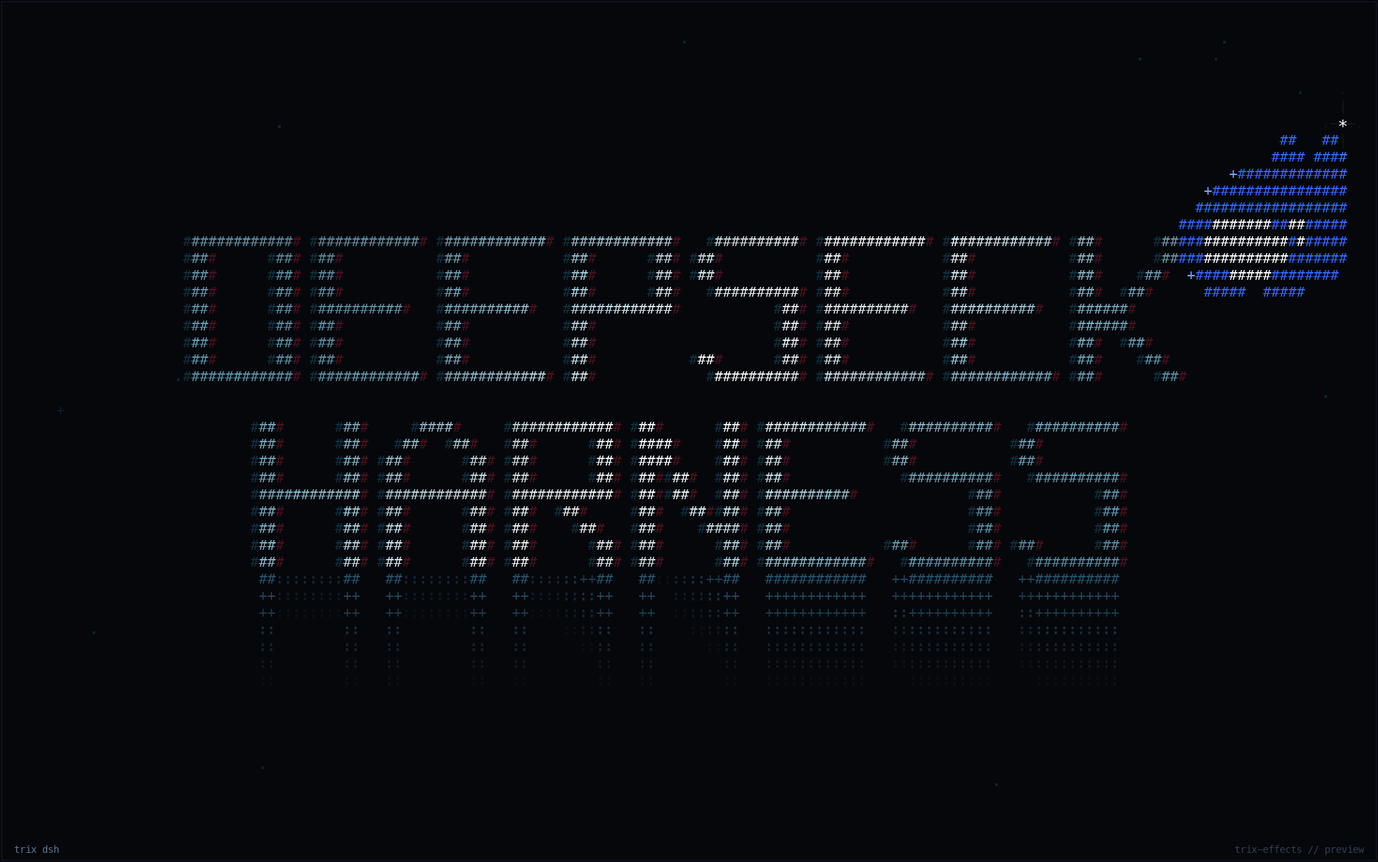
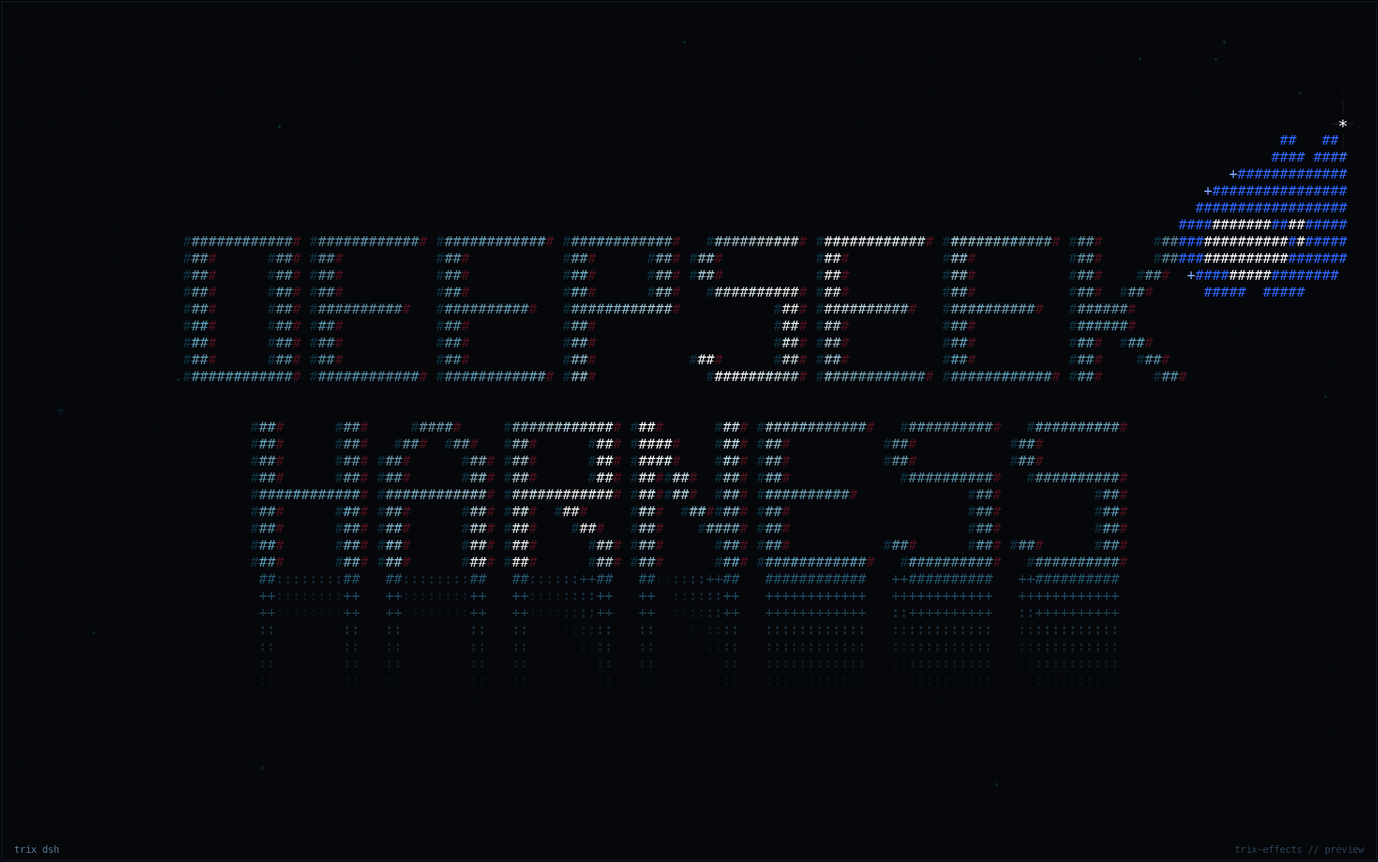
feat(dsh): narrow the diagonal light pulse
Replace the full-diagonal cosine wash with a gaussian pulse roughly two to three letters wide. The pulse starts and ends outside the lockup, so the rest of the wordmark stays at a steady ice-blue level and only a small white patch sweeps from the upper-left to the lower-right. Refresh the dsh previews and GIF, and sync the meta, README and changelog text.

diff --git a/src/scenes/dsh.rs b/src/scenes/dsh.rs
@@ -7,12 +7,12 @@
 //! The intro reveals the letters one by one, then drops the lockup in stuttered
 //! steps; when it lands it makes one quick two-row hop back up before settling,
 //! leaving a faint ghost stack under HARNESS.  After that the wordmark stays on
-//! screen forever while a diagonal band of light runs from its upper-left
-//! corner to its lower-right corner: letters brighten to white as the band
-//! reaches them and fall back to ice blue behind it, with no pause between
-//! passes.  A small star twinkles at the whale's tail tip and repeats the
-//! double-blink flare from the interstellar vanishing star.  ASCII is the
-//! default; `--unicode` swaps the fill for solid blocks.
+//! screen forever while a narrow diagonal band of light runs from its
+//! upper-left corner to its lower-right corner: only the letters under the
+//! band brighten to white, with soft edges, and they fall back to ice blue
+//! behind it before the next pass.  A small star twinkles at the whale's tail
+//! tip and repeats the double-blink flare from the interstellar vanishing
+//! star.  ASCII is the default; `--unicode` swaps the fill for solid blocks.
 
 #![allow(clippy::needless_range_loop)]
 
@@ -23,9 +23,15 @@ use crate::rng::hash2;
 use crate::scene::{Frame, Scene};
 
 /// One diagonal light pass from the lockup's upper-left corner to its
-/// lower-right corner.  The wave is periodic, so the next pass starts the
-/// moment the previous one leaves the screen.
+/// lower-right corner.  The pulse starts and ends just outside the lockup so
+/// it enters and leaves the frame instead of splitting at the wrap point.
 const SWEEP_PERIOD: f32 = 3.8;
+/// Width of the bright pulse as a fraction of the lockup diagonal.  At 0.10
+/// the hot core is about one letter wide and the soft half-max span reaches
+/// two to three letters.
+const SWEEP_SIGMA: f32 = 0.10;
+/// How far outside the lockup diagonal the pulse starts and ends.
+const SWEEP_MARGIN: f32 = 0.15;
 
 /// A small star twinkles at the whale's tail tip.  On terminals too narrow for
 /// the whale it falls back to the K's top-right corner and starts earlier.
@@ -1018,11 +1024,16 @@ fn sweep_u(layout: Layout, offset: isize, x: isize, y: isize) -> f32 {
     ((x as f32 - left) + 2.0 * (y as f32 - top)) / span
 }
 
-/// Brightness of the diagonal light band at normalised position `u`.
+/// Brightness of the narrow diagonal light pulse at normalised position `u`.
+///
+/// The pulse crosses the whole diagonal once per period, starting and ending
+/// just outside the lockup so the wrap happens while it is invisible.  A
+/// gaussian profile keeps the leading and trailing edges soft.
 fn sweep_glow(u: f32, t: f32) -> f32 {
-    let phase = (t / SWEEP_PERIOD).rem_euclid(1.0);
-    let wave = 0.5 + 0.5 * ((u - phase) * std::f32::consts::TAU).cos();
-    wave.powf(2.6)
+    let cycle = (t / SWEEP_PERIOD).rem_euclid(1.0);
+    let phase = -SWEEP_MARGIN + (1.0 + 2.0 * SWEEP_MARGIN) * cycle;
+    let d = u - phase;
+    (-(d / SWEEP_SIGMA).powi(2)).exp()
 }
 
 #[cfg(test)]
@@ -1278,37 +1289,47 @@ mod tests {
     }
 
     #[test]
-    fn diagonal_light_band_moves_from_upper_left_to_lower_right() {
-        // The crest of the band sits at u = t / SWEEP_PERIOD.  Sampling the
-        // whole diagonal at four points in the cycle shows it walking from
-        // the upper-left corner to the lower-right corner.
-        for k in [0.0, 0.25, 0.5, 0.75] {
-            let t = SWEEP_PERIOD * k;
-            let mut best_u = 0.0;
-            let mut best = -1.0;
-            for i in 0..=1000 {
-                let u = i as f32 / 1000.0;
-                let glow = sweep_glow(u, t);
-                if glow > best {
-                    best = glow;
-                    best_u = u;
-                }
-            }
-            assert!(
-                (best_u - k).abs() < 0.01,
-                "the crest should be at {k} after {k} of a period, got {best_u}"
-            );
-        }
+    fn narrow_light_pulse_moves_from_upper_left_to_lower_right() {
+        // At half a period the pulse is centred on the diagonal; a quarter
+        // period later it has moved towards the lower-right corner.
+        let peak = |t: f32| {
+            (0..=1000)
+                .map(|i| i as f32 / 1000.0)
+                .max_by(|a, b| {
+                    sweep_glow(*a, t)
+                        .partial_cmp(&sweep_glow(*b, t))
+                        .expect("finite glow")
+                })
+                .expect("sample")
+        };
+        let quarter = peak(0.25 * SWEEP_PERIOD);
+        let middle = peak(0.5 * SWEEP_PERIOD);
+        let three_quarters = peak(0.75 * SWEEP_PERIOD);
+        assert!(
+            quarter < middle && middle < three_quarters,
+            "the pulse should walk down-right: {quarter} < {middle} < {three_quarters}"
+        );
+        assert!((middle - 0.5).abs() < 0.01);
 
-        // The loop is seamless: one period later the same gradient returns.
-        for i in 0..10 {
+        // It is a small patch of light, not a broad wash: 0.2 of the diagonal
+        // away from the crest is already dark.
+        let mid = 0.5 * SWEEP_PERIOD;
+        assert!(sweep_glow(0.5, mid) > 0.99);
+        assert!(sweep_glow(0.3, mid) < 0.05);
+        assert!(sweep_glow(0.7, mid) < 0.05);
+
+        // It starts and ends outside the lockup, so the wrap is a clean gap
+        // rather than two half-pulses at opposite corners.
+        assert!(sweep_glow(0.5, 0.0) < 0.05);
+        assert!(sweep_glow(0.5, 0.999 * SWEEP_PERIOD) < 0.05);
+
+        // One period later the same pulse returns.
+        for i in 0..=10 {
             let u = i as f32 / 10.0;
             let a = sweep_glow(u, 7.3);
             let b = sweep_glow(u, 7.3 + SWEEP_PERIOD);
-            assert!((a - b).abs() < 1e-4, "sweep does not wrap at u={u}");
+            assert!((a - b).abs() < 1e-4, "pulse does not wrap at u={u}");
         }
-        // The far side of the cycle is a genuine trough, not a second crest.
-        assert!(sweep_glow(0.5, 0.0) < 0.05);
     }
 
     #[test]
@@ -1322,6 +1343,7 @@ mod tests {
         let mut min = 1.0f32;
         let mut max = 0.0f32;
         let mut lit = 0;
+        let mut bright = 0;
         for c in &scene.mask {
             let y = c.y + offset;
             if !(1..=45).contains(&y) {
@@ -1331,8 +1353,12 @@ mod tests {
             if cell.ch == ' ' {
                 continue;
             }
-            min = min.min(cell.fg.luminance());
-            max = max.max(cell.fg.luminance());
+            let lum = cell.fg.luminance();
+            min = min.min(lum);
+            max = max.max(lum);
+            if lum > 0.90 {
+                bright += 1;
+            }
             lit += 1;
         }
         assert!(lit > 500);
@@ -1348,6 +1374,10 @@ mod tests {
             max - min > 0.20,
             "the diagonal gradient is too flat: {min:.2}..{max:.2}"
         );
+        assert!(
+            bright * 4 < lit,
+            "the pulse covers too much of the wordmark: {bright}/{lit} bright cells"
+        );
 
         // The bright cells should be the ones furthest along the diagonal at
         // this phase, and they should move further down-right a moment later.
@@ -1362,7 +1392,7 @@ mod tests {
                     continue;
                 }
                 let cell = canvas.cells[y as usize * 160 + c.x as usize];
-                if cell.fg.luminance() > 0.90 {
+                if cell.fg.luminance() > 0.82 {
                     sum += (c.x + 2 * c.y) as f32;
                     n += 1.0;
                 }
@@ -1374,7 +1404,7 @@ mod tests {
             }
         };
         let earlier = mean_projection(&mut scene, 10.0);
-        let later = mean_projection(&mut scene, 10.0 + SWEEP_PERIOD * 0.25);
+        let later = mean_projection(&mut scene, 10.0 + SWEEP_PERIOD * 0.16);
         assert!(
             later > earlier,
             "the bright band should move down-right: {earlier} -> {later}"

diff --git a/src/meta.rs b/src/meta.rs
@@ -314,7 +314,7 @@ impl EffectId {
             EffectId::Ballet => "A 39-scene-second duet looping through 13 sections: glide, crossover, arabesque, promenade, overhead lift, pair spin, death spiral, sissonne, Ina Bauer and finale. Joints use two-bone IK; the default tempo is 2x, about 19.5 seconds per loop.",
             EffectId::DemonEye => "One huge bloodshot eye fills the screen; it blinks every 8-15 seconds and darts its gaze 1-2 times between blinks. --eye-motion dart|still.",
             EffectId::Life => "A 0-100 age timeline with glowing life lines; family, love and generations enter and leave on schedule. The bright beam grows with age; a supernova finale closes ME's timeline. --life-cycle sets the round length.",
-            EffectId::Dsh => "A giant two-line DEEPSEEK HARNESS lockup with a blue whale mark immediately to the right of the K. Both lines are centred; the layout protects clear letter gaps (never zero, at least two blank columns in the 3x face and up to three in the 2x face) and picks the largest face that still leaves the mark touching the K. The whale fades in after the landing bounce. The intro reveals the letters one by one and drops the lockup in stuttered one-row steps; when it lands it gives one quick two-row hop upward before settling, and a faint ghost stack stays at HARNESS's feet. After that the wordmark never leaves the screen: a diagonal band of light travels from the upper-left corner to the lower-right, lifting each glyph from ice blue to white as it arrives and letting it fall back behind the band. The sweep loops with no pause, and nothing is drawn between the letters — it is a pure font-brightness gradient rather than a beam. The whale's tail tip carries the little twinkling star, which replays the two-blink flare from the interstellar scene's vanishing star. No fireworks or particle burst. ASCII by default; --unicode uses solid blocks, and --trail sets the drop-ghost strength.",
+            EffectId::Dsh => "A giant two-line DEEPSEEK HARNESS lockup with a blue whale mark immediately to the right of the K. Both lines are centred; the layout protects clear letter gaps (never zero, at least two blank columns in the 3x face and up to three in the 2x face) and picks the largest face that still leaves the mark touching the K. The whale fades in after the landing bounce. The intro reveals the letters one by one and drops the lockup in stuttered one-row steps; when it lands it gives one quick two-row hop upward before settling, and a faint ghost stack stays at HARNESS's feet. After that the wordmark never leaves the screen: a narrow diagonal band of light travels from the upper-left corner to the lower-right, lifting each glyph from ice blue to white as it arrives and letting it fall back behind the band. The sweep loops continuously, with the pulse entering and leaving the frame between passes, and nothing is drawn between the letters — it is a pure font-brightness gradient rather than a beam. The whale's tail tip carries the little twinkling star, which replays the two-blink flare from the interstellar scene's vanishing star. No fireworks or particle burst. ASCII by default; --unicode uses solid blocks, and --trail sets the drop-ghost strength.",
             EffectId::Vibe => "A Claude Code-style transcript reads src/scenes/vibe.rs (or an embedded copy), types it with a small Rust syntax highlighter and loops through six windows per turn; only the lines up to the typing head are visible, and each loop starts from a clean transcript. ASCII by default; --unicode swaps in the Claude Code prompt, tool and spinner glyphs.",
             EffectId::Volcano => "The sky starts clear over a compact truncated cone. One continuous eruption builds a thick, churning canopy about half the screen wide; the dense middle keeps rolling as fresh ash is supplied and never shrinks, while the flanks stay thinner. Lava bombs and rock blocks rain out of the middle and explode on landing, a continuous fountain feeds the column, two curved lava rivers crawl down the cone, and volcanic lightning crawls through the ash. ASCII by default; --unicode uses solid blocks for the mountain and ash.",
             EffectId::Launch => "A twenty-four second launch film: blue-hour pad, ignition flash, a full-height two-stage rocket with twin boosters, layered exhaust and world-space smoke, max-Q, MECO and booster separation, a second-stage climb, then an Earth-limb sunrise. The camera follows and shakes; --rocket-scale and --shake tune the framing. Pure ASCII.",

diff --git a/README.md b/README.md
@@ -218,7 +218,7 @@ Every effect name is given in English and Chinese; `trix --list` uses the same n
 | Ice Ballet (冰上芭蕾) `ballet` | An ice-ballet duet: a 39-scene-second choreography loops through 13 sections; the default 2x tempo makes one loop about 19.5 seconds (glide, crossover, arabesque, promenade, **overhead lift**, pair spin, death spiral, sissonne, Ina Bauer, final pose); joints use two-bone IK, clasped hands align automatically, limbs have soft edges and lag behind the torso; the routine covers most of the screen, three rows of spectators behind the boards sway, raise their hands and fire flashbulbs, and skate marks and reflections stay on the ice; `--speed` |
 | Demon Eye (恶魔之眼) `demoneye` | One huge bloodshot eye fills the screen: it blinks every 8–15 seconds, singly or doubly (about 7:3); between blinks the eyeball darts only 1–2 times (darts at least 5 seconds apart), reaching the target in about 0.1 s and always returning to center within 0.45–0.85 s; the vertical pupil scales, eyelids press in, blood vessels and a blink shockwave; `--eye-motion dart\|still` (default `dart`), `--eye-still` pins the eyeball dead center |
 | Threads of Life (生命的轨迹) `life` | A 0–100 age timeline with glowing life lines on both sides; every human uses `@` with a colored uppercase abbreviation on the same row and **the relative's own age** (friends who are not family carry no age); the bright beam grows with age (late in life it can cover most of the lifetime), fading from dark dots / dashes at the tail up to `=` at the head, with a `****@` comet tail; the first ~22%–42% of life (at most about 22 years) stays as sparse dim dots; when a track ends its row can be reused by someone later (school-age `PAL/UNI` +1 row → GF/WIFE, `DOG` −1 row → KID2, and the cat / parents' rows are reclaimed by later friends); `DOG` stays at −1 next to me for life; when `PAL/UNI/WORK/FRIEND` coexist they **share one row**: during the school years it sits on the other side at +1, and while a minor KID exists the whole group retreats to the nearest free row outside KID/CAT (usually +4; only rows actually used by children/pets are yielded, no longer fixed −5/−7), and all KIDs move back inside once grown; `ME 0 / WIFE +1`; `KID1 +2`, `KID2 −1` (reusing the row next to me that DOG gave up), `KID3 −2`; before adulthood `KID3 −2 / KID2 −1 / ME 0 / WIFE +1 / KID1 +2` is **contiguous with no empty rows**, and `GRAND1/GRAND2` always hug their parent's row (moving with them as they drift); `CAT +3` is born with the first child, just below KID1; `DAD/MOM +3/+4` start yielding to `+5/+6` two years before the child is born, and `BRO +5→+7` follows; GPA/GMA/DAD/MOM get suitable random starting ages when I am 0 (58–70 / 56–68 / 25–33 / 23–31), BRO 0–4, ME 0; KID/GRAND/CAT/DOG count from their own birth, GF/WIFE are within ±2 years of my age; every row is fixed at one terminal row (it does not scale with terminal height, and tall terminals never produce empty rows from rounding); when `ME` ends, a roughly 6-second **supernova finale** plays (the flashback and stardust slow down while the comet keeps its speed: white core, life flashback, shockwave, stardust, brightened comet and a permanent halo at the top; the flashback beam that reaches ME's stop line stays three columns wide and never disappears); the death point and the top star keep `@` + name + final age and appear/disappear in sync once per second; all the dead rise to the top in death order, one row apart, and their end labels fade in 0.5 s after the meteor arrives; humans blink as `*`, cats and dogs as `+`; GF approaches for 2 years, then stays 1–2 years before becoming WIFE; WIFE lives to 75–90 and dies after I become a star; AGE has no leading zeros; `--life-cycle` sets the length of one round |
-| DeepSeek Harness (深度求索) `dsh` | A giant **two-line** wordmark with **both lines centred**: `DEEPSEEK` on top, `HARNESS` below. Letter gaps are protected — never zero, at least **two blank columns in the 3× face** and up to three in the 2× face — so every letter stays distinct. The **blue whale mark** sits immediately to the right of the K, its mouth touching the K; it fades in after the landing bounce. The intro **fades the letters in one by one**, then **drops the lockup in stuttered one-row steps** and gives a quick two-row **upward hop** when it lands; a deliberately faint ghost stack stays at HARNESS's feet, never over the letter bodies. After that the wordmark **never disappears**: a **diagonal band of light** runs from the lockup's upper-left corner to its lower-right corner, lifting each glyph from ice blue to white as it arrives and letting it fall back behind the band. The sweep **loops with no pause**, and nothing is drawn between the letters — it is a pure **font-brightness gradient**, not a beam. A tiny star twinkles at the **whale's tail tip**, replaying the two-blink flare from the Interstellar scene's vanishing star. No fireworks or particle burst. `--trail <f>` sets the drop-ghost strength; **ASCII by default**, `--unicode` uses solid blocks ([GIF](docs/dsh.gif)) |
+| DeepSeek Harness (深度求索) `dsh` | A giant **two-line** wordmark with **both lines centred**: `DEEPSEEK` on top, `HARNESS` below. Letter gaps are protected — never zero, at least **two blank columns in the 3× face** and up to three in the 2× face — so every letter stays distinct. The **blue whale mark** sits immediately to the right of the K, its mouth touching the K; it fades in after the landing bounce. The intro **fades the letters in one by one**, then **drops the lockup in stuttered one-row steps** and gives a quick two-row **upward hop** when it lands; a deliberately faint ghost stack stays at HARNESS's feet, never over the letter bodies. After that the wordmark **never disappears**: a **narrow diagonal band of light** runs from the lockup's upper-left corner to its lower-right corner, lifting each glyph from ice blue to white as it arrives and letting it fall back behind the band. The sweep **loops continuously**, entering and leaving the frame before the next pass, and nothing is drawn between the letters — it is a pure **font-brightness gradient**, not a beam. A tiny star twinkles at the **whale's tail tip**, replaying the two-blink flare from the Interstellar scene's vanishing star. No fireworks or particle burst. `--trail <f>` sets the drop-ghost strength; **ASCII by default**, `--unicode` uses solid blocks ([GIF](docs/dsh.gif)) |
 | Vibe Coding (氛围编程) `vibe` | A single-column **Claude Code transcript** that reads `src/scenes/vibe.rs` (or an embedded copy), types the source with a hand-written **Rust syntax highlighter**, and loops through six short windows per turn; each loop starts from a clean transcript; it shows the prompt, assistant/tool lines, `+` diff-style code, a rotating spinner with token count, the input box and the bypass-permissions footer; **ASCII by default** (`>`, `*`, `L`, `>>`), `--unicode` switches to Claude Code-style `❯ ◉ └ ✻ ▶▶` glyphs ([GIF](docs/vibe.gif)) |
 | Volcano (火山爆发) `volcano` | The sky starts clear over a compact truncated cone. One continuous eruption builds a thick, churning canopy about half the screen wide: the dense middle keeps rolling as fresh ash is supplied and never shrinks, while the flanks stay thinner. Lava bombs and rock blocks rain out of the middle and explode on landing, a continuous fountain feeds the column, two curved lava rivers crawl down the cone, and volcanic lightning crawls through the ash. A dark foreground ridge with pines frames the scene. **ASCII by default**; `--unicode` uses solid blocks for the mountain and ash. |
 | Rocket Launch (火箭发射) `launch` | A 24-second launch film: a larger two-stage rocket with twin boosters, blue-hour pad, ignition fireball, layered exhaust and world-space smoke, a following camera with shake, max-Q clouds, MECO / stage separation, a second-stage climb and an Earth-limb sunrise; `--rocket-scale` and `--shake`. **Pure ASCII.** |
@@ -511,7 +511,7 @@ scripts/bench.sh
 - **Heartbeat Monitor**: ECG grid, P-QRS-T waveform, scan line, HR/SpO2/SYS-DIA; ASCII waveform by default, `--unicode` switches to Unicode box drawing / solid waveform.
 - **Dandelion**: 3 clumps × 2 stems / 6 flower heads; left and right roots bend toward the center; flower heads ×1.5.
 - **Oriental Pearl**: Bund night view + Oriental Pearl + Huangpu River reflections; two random boats on the river — hull type (junk / barge / ferry), size, hull palette, channel depth and drift direction are all random; distant boats sit low on the water while near boats are large and press against the frame, with decks / portholes / lit cabin windows / smoking funnels / mast lights / bow lanterns / wakes and water reflections; 1–2 meteors cross the night sky every 3–5 seconds (about 18% of intervals are skipped), with a white-hot head and an ice-blue or warm-gold fading tail, flying into the skyline or fading out and being recycled.
-- **DeepSeek Harness**: a two-line lockup (`DEEPSEEK` / centred `HARNESS`) is laid out from the 6×9 / 8×11 display faces with horizontal pixel doubling. The layout now treats spacing as part of the design: the old zero/one-column candidates were removed, the 3× face always keeps two blank columns, and the 2× face tries three then two before one. At 160×48 the lines are 117×9 with three-column gaps; at 248×56 they are 206×11 with two-column gaps. A hand-traced **blue whale** (brand blue body, white belly and eye patch, tail upper-right) sits immediately to the right of the K — its mouth touches the K — and fades in after the landing bounce; it is 20×10 at 160×48, 13×6 at 120×36, 11×5 at 100×30 and hidden below 100 columns. The intro is a per-letter reveal with a top-to-bottom wipe and a quantised one-row drop; when the lockup lands it makes one quick two-row hop back up before settling, while the ghost stays on the bottom step. The ghost belongs to HARNESS alone: it starts at the feet of the letters and stays faint, so it reads as an afterimage rather than a second copy of the text. The wordmark then stays on screen forever: a diagonal band of light runs from the upper-left corner to the lower-right, with the glyphs lifted from ice blue to white as it arrives and dropped back to ice blue behind it. The sweep is continuous, with no rest between passes and no beam drawn between the letters — only the font's own brightness and colour change. A small star sits at the whale's tail tip: it keeps a faint, slow twinkle and every 4.6 s replays the Interstellar vanishing star's two-blink flare — a hot `*` core, cross arms, diagonal rays and a short expanding ring of dots. No other flare or particle burst. `--trail` scales the ghosts.
+- **DeepSeek Harness**: a two-line lockup (`DEEPSEEK` / centred `HARNESS`) is laid out from the 6×9 / 8×11 display faces with horizontal pixel doubling. The layout now treats spacing as part of the design: the old zero/one-column candidates were removed, the 3× face always keeps two blank columns, and the 2× face tries three then two before one. At 160×48 the lines are 117×9 with three-column gaps; at 248×56 they are 206×11 with two-column gaps. A hand-traced **blue whale** (brand blue body, white belly and eye patch, tail upper-right) sits immediately to the right of the K — its mouth touches the K — and fades in after the landing bounce; it is 20×10 at 160×48, 13×6 at 120×36, 11×5 at 100×30 and hidden below 100 columns. The intro is a per-letter reveal with a top-to-bottom wipe and a quantised one-row drop; when the lockup lands it makes one quick two-row hop back up before settling, while the ghost stays on the bottom step. The ghost belongs to HARNESS alone: it starts at the feet of the letters and stays faint, so it reads as an afterimage rather than a second copy of the text. The wordmark then stays on screen forever: a narrow diagonal band of light runs from the upper-left corner to the lower-right, with the glyphs lifted from ice blue to white as it arrives and dropped back to ice blue behind it. The pulse enters and leaves the frame before the next pass, so the sweep loops continuously, and no beam is drawn between the letters — only the font's own brightness and colour change. A small star sits at the whale's tail tip: it keeps a faint, slow twinkle and every 4.6 s replays the Interstellar vanishing star's two-blink flare — a hot `*` core, cross arms, diagonal rays and a short expanding ring of dots. No other flare or particle burst. `--trail` scales the ghosts.
 - **Rocket Launch**: a procedurally scaled two-stage stack (fairing, core, twin boosters and engine bells) is drawn from a 7/9/11-column glyph grid; the camera follows the ascent and shakes on ignition and separation. Exhaust is a layered ASCII plume with a white-hot spine and shock diamonds, backed by world-space smoke, steam and sparks. The blue-hour sky gradient, parallax star layers, cloud deck, MECO flash, tumbling core and boosters, Earth-limb atmosphere and orbital sunrise are drawn around it. `--rocket-scale` and `--shake` tune the framing.
 - **Vibe Coding**: reads `src/scenes/vibe.rs` (falling back to a compile-time copy), normalises it to ASCII, skips the test module and builds six 10-line windows per turn. A hand-written Rust tokenizer colours comments, strings, numbers, keywords, types, macros and function names; the transcript is a typed queue that only reveals lines up to the typing head (the area below stays blank) and clears before the next loop, with a Claude Code-style spinner, token count and composer.
 - **Offline map data**: `tools/gen_land.py` downloads Natural Earth and rasterizes it into `src/data/land_720x360.bin`; runtime never touches the network.

diff --git a/README.zh-CN.md b/README.zh-CN.md
@@ -218,7 +218,7 @@ trix --list            # TTY 下彩色目录；管道下纯文本
 | 冰上芭蕾 (Ice Ballet) `ballet` | 冰场双人舞：39 个场景秒的编舞循环 13 个舞段；默认 2× 节奏约 19.5 秒一轮（滑行、压步、arabesque、promenade、**头顶托举**、联合旋转、death spiral、sissonne 跳跃、Ina Bauer、收势），关节用两骨 IK 求解、牵手自动对齐，四肢带柔边并延迟跟随躯干；整场滑行覆盖大部分画面，围板后有三排会摇晃/举手/打闪光灯的观众，冰面留下冰刀刻痕与倒影；`--speed` 调速 |
 | 恶魔之眼 (Demon Eye) `demoneye` | 整屏一只巨大血眼：眨眼每 8～15 秒一次、单眨或双眨（约 7:3），每两次眨眼之间只甩出 1～2 次（两次跳动相隔 ≥5 秒），约 0.1 秒到位、0.45～0.85 秒内必回正中直视观众；竖瞳缩放、眼睑压暗、血丝与眨眼冲击波；`--eye-motion dart\|still`（默认 dart），`--eye-still` 让眼球钉在正中 |
 | 生命的轨迹 (Threads of Life) `life` | 0～100 岁时间轴与左右生命线；人类统一 `@` 符号 + 同排彩色大写简写 + **家属本人年龄**（非亲属朋友不带年龄）；亮光束随年龄增长（年长后可覆盖大部分生命），由尾部的暗点/短划线渐亮到 `=`，头部为 `****@` 彗尾；生命最初约 22%～42%（最多约 22 年）保留为稀疏暗淡的点；每条轨迹结束后其行位可被后来者复用（学龄 `PAL/UNI` 的 +1 行 → GF/WIFE，`DOG` 的 -1 行 → KID2，猫/父母的行位也会被后来的朋友接回）；`DOG` 终身在 -1 紧挨我；`PAL/UNI/WORK/FRIEND` 同时出现时**共用同一行**：学龄期在 +1 另一侧，有未成年 KID 时整组退到 KID/CAT 外侧最近的空行（通常为 +4；只让出孩子/宠物实际占用的行，不再固定 -5/-7），所有 KID 成年后回到内侧；`ME 0 / WIFE +1`；`KID1 +2`、`KID2 -1`（复用 DOG 让出的紧邻行）、`KID3 -2`；成年前 `KID3 -2 / KID2 -1 / ME 0 / WIFE +1 / KID1 +2` **连续无空行**，`GRAND1/GRAND2` 始终紧贴父辈一行（父辈成年漂移后随之移动）；`CAT +3` 与第一个孩子同时出生，紧贴 KID1 下方；`DAD/MOM +3/+4` 在孩子出生前两年开始让位到 `+5/+6`，`BRO +5→+7` 紧随让位；GPA/GMA/DAD/MOM 在我 0 岁时随机得到合适起始年龄（58～70 / 56～68 / 25～33 / 23～31），BRO 0～4，ME 0；KID/GRAND/CAT/DOG 从各自出生起算，GF/WIFE 与我同龄上下 2 岁；所有行固定为 1 个终端行（不随终端高度缩放，高终端也不会因取整出现空行）；`ME` 结束时触发约 6 秒的**超新星终章**（回闪与星屑放慢、彗星保持原速；白光核心、一生回闪、冲击波、星屑、加亮彗星与顶部永久光晕；回闪扫描光柱到达 ME 的停止线后以三列宽永久保留，不再消失）；死亡点与顶部星标保留 `@` + 名称 + 最终年龄，并以每秒 1 次同步显现/消失；所有死亡角色升到顶部按死亡顺序隔行排列，终点标签在流星抵达后 0.5 秒淡入；人类 `*`、猫狗 `+` 闪烁；GF 用 2 年靠近、再停留 1～2 年变 WIFE；WIFE 75～90 岁、晚于我化星；AGE 无前导零；`--life-cycle` 控制一轮秒数 |
-| 深度求索 (DeepSeek Harness) `dsh` | 巨型**两行**字标，**两行都水平居中**：上行 `DEEPSEEK`，下行 `HARNESS`。字母间距不再被牺牲：**3 倍字模至少留 2 列空白**，2 倍字模优先 3/2 列，绝不出现 0 列间距，所以每个字母都能分清。**蓝色鲸鱼 Logo** 的嘴巴**紧贴 K**，在落地回弹后淡入。入场时字母**逐个由隐到现**，整块字标以**阶梯式每次下落 1 行**的方式丢帧，落到底时向上快速弹跳两行再停住；残影只属于 HARNESS，从字体脚下开始，颜色刻意压暗，不会盖到字的身体上。之后字标**不再消失**：一道**斜向光带**从字标左上角掠向右下角，经过的字符由冰蓝提亮到白色，光带离开后又落回冰蓝。光带**无缝循环、没有停顿**，字与字之间不画任何光线——只有字体本身的亮度和颜色在变。小星移到了**鲸鱼尾尖**，每隔几秒复现一次《星际穿越》孤星消失时的双闪十字光芒。没有烟花/粒子爆发。`--trail <f>` 调残影强度；**默认 ASCII**，`--unicode` 用实心块（[GIF](docs/dsh.gif)） |
+| 深度求索 (DeepSeek Harness) `dsh` | 巨型**两行**字标，**两行都水平居中**：上行 `DEEPSEEK`，下行 `HARNESS`。字母间距不再被牺牲：**3 倍字模至少留 2 列空白**，2 倍字模优先 3/2 列，绝不出现 0 列间距，所以每个字母都能分清。**蓝色鲸鱼 Logo** 的嘴巴**紧贴 K**，在落地回弹后淡入。入场时字母**逐个由隐到现**，整块字标以**阶梯式每次下落 1 行**的方式丢帧，落到底时向上快速弹跳两行再停住；残影只属于 HARNESS，从字体脚下开始，颜色刻意压暗，不会盖到字的身体上。之后字标**不再消失**：一道**窄斜向光带**从字标左上角掠向右下角，经过的字符由冰蓝提亮到白色，光带离开后又落回冰蓝。光带**循环不息**，每一轮从画外进入、再滑出画外，字与字之间不画任何光线——只有字体本身的亮度和颜色在变。小星移到了**鲸鱼尾尖**，每隔几秒复现一次《星际穿越》孤星消失时的双闪十字光芒。没有烟花/粒子爆发。`--trail <f>` 调残影强度；**默认 ASCII**，`--unicode` 用实心块（[GIF](docs/dsh.gif)） |
 | 氛围编程 (Vibe Coding) `vibe` | 单栏 **Claude Code 转录**：读取 `src/scenes/vibe.rs`（找不到时用编译期内置副本），用**手写 Rust 语法高亮**逐字打出源码，每轮循环 6 个短窗口；每轮重新开始时先清空转录，再打新内容；包含 prompt、assistant/tool 行、`+` diff 风格代码、旋转 spinner 与 token 数、输入框和 bypass 权限 footer；**默认 ASCII**（`>`、`*`、`L`、`>>`），`--unicode` 切换为 Claude Code 风格的 `❯ ◉ └ ✻ ▶▶`（[GIF](docs/vibe.gif)） |
 | 火山爆发 (Volcano) `volcano` | 开场天空干净、没有云层；体量较小的截顶火山锥持续喷发，在高空堆出**约半个屏幕宽**的浓厚云盖：中间云层不断翻滚、持续补充、只增不减，两侧明显更淡。熔岩弹和山块从云层中间不断落下、落地炸开；火口持续喷出岩浆，两条弯曲熔岩河沿山体下流，火山闪电在灰云中爬行；前景是黑色山脊与松树。**默认 ASCII**；`--unicode` 用实心块画山体与火山灰。 |
 | 火箭发射 (Rocket Launch) `launch` | 24 秒发射大片：更大的两级火箭与双助推器、蓝调发射台、点火火球、多层尾焰与世界坐标烟雾、跟随镜头与震动、Max-Q 云层、MECO / 级间分离、二级爬升和地球弧线日出；`--rocket-scale`、`--shake`。**纯 ASCII。** |
@@ -511,7 +511,7 @@ scripts/bench.sh
 - **心率跳动**：ECG 网格、P-QRS-T 波形、扫描线、HR/SpO2/SYS-DIA；默认 ASCII 波形，`--unicode` 切换 Unicode 框线/实心波形。
 - **蒲公英**：3 丛×2 茎/6 花头；左右根向中间弯曲；花头尺寸 ×1.5。
 - **东方明珠**：外滩夜景 + 东方明珠 + 黄浦江倒影；江面两条随机船只——船型（帆船/货轮/渡轮）、尺寸、船体配色、航道深度与左右漂移方向都随机，远景小船贴水、近景大船压屏，带甲板/舷窗/船楼窗光/烟囱冒烟/桅杆航灯/船首灯笼/尾迹与水面倒影；每 3–5 秒夜空随机 1–2 颗流星（约 18% 的时段空过），白热头部 + 冰蓝或暖金渐隐尾迹，飞入天际线或淡出后回收。
-- **深度求索**：两行字标（`DEEPSEEK` / 居中的 `HARNESS`）由 6×9 / 8×11 显示字模横向放大 2 倍排布。字距现在是布局的硬约束：删掉了 0/1 列的拥挤配置，3 倍字模始终留 2 列空白，2 倍字模依次尝试 3、2、1 列。160×48 时每行 117×9、间距 3 列；248×56 时每行 206×11、间距 2 列，字母都清晰可辨。K 的右侧是手工描出的**蓝色鲸鱼**（品牌蓝身体、白色肚皮和眼斑、尾巴在右上），嘴巴紧贴 K，落地回弹后淡入；160×48 时为 20×10，120×36 为 13×6，100×30 为 11×5，100 列以下隐藏。入场是逐字出现（像素从上到下刷出）与每次 1 行的量化丢帧；落到底时整块字标会先向上快速弹跳两行，再落回最终位置，而残影停在最底行不动。残影只属于 HARNESS，从字体脚下开始，颜色压得很暗，只作为残影存在，不会像正体的第二份拷贝。之后字标**永久保留**：一道**斜向光带**从字标左上角掠向右下角，经过的字符由冰蓝提亮到白色，光带离开后又落回冰蓝；光带**无缝循环、没有停顿**。字与字之间不画任何光线——只有字体本身的亮度和颜色在变。小星位于**鲸鱼尾尖**：平时保持缓慢的微弱闪烁，每 4.6 秒复现一次《星际穿越》孤星消失时的双闪——白热 `*` 核心、十字光臂、斜向光芒和一圈短暂扩散的光点。除此之外没有烟花/粒子爆发。`--trail` 缩放残影。
+- **深度求索**：两行字标（`DEEPSEEK` / 居中的 `HARNESS`）由 6×9 / 8×11 显示字模横向放大 2 倍排布。字距现在是布局的硬约束：删掉了 0/1 列的拥挤配置，3 倍字模始终留 2 列空白，2 倍字模依次尝试 3、2、1 列。160×48 时每行 117×9、间距 3 列；248×56 时每行 206×11、间距 2 列，字母都清晰可辨。K 的右侧是手工描出的**蓝色鲸鱼**（品牌蓝身体、白色肚皮和眼斑、尾巴在右上），嘴巴紧贴 K，落地回弹后淡入；160×48 时为 20×10，120×36 为 13×6，100×30 为 11×5，100 列以下隐藏。入场是逐字出现（像素从上到下刷出）与每次 1 行的量化丢帧；落到底时整块字标会先向上快速弹跳两行，再落回最终位置，而残影停在最底行不动。残影只属于 HARNESS，从字体脚下开始，颜色压得很暗，只作为残影存在，不会像正体的第二份拷贝。之后字标**永久保留**：一道**窄斜向光带**从字标左上角掠向右下角，经过的字符由冰蓝提亮到白色，光带离开后又落回冰蓝；光带**循环不息**，每一轮从画外进入、再滑出画外。字与字之间不画任何光线——只有字体本身的亮度和颜色在变。小星位于**鲸鱼尾尖**：平时保持缓慢的微弱闪烁，每 4.6 秒复现一次《星际穿越》孤星消失时的双闪——白热 `*` 核心、十字光臂、斜向光芒和一圈短暂扩散的光点。除此之外没有烟花/粒子爆发。`--trail` 缩放残影。
 - **火箭发射**：程序化缩放的两级火箭（整流罩、芯级、双助推器、发动机喷管）由 7/9/11 列的字符网格生成；镜头跟随升空，并在点火与级间分离时震动。尾焰是带白热核心与马赫环的分层 ASCII 火焰，配合世界坐标烟雾、蒸汽与火星。周围还有蓝调天空渐变、视差星层、云层、MECO 闪光、翻滚的芯级与助推器、地球弧线大气和轨道日出。`--rocket-scale` 与 `--shake` 调整构图和震动。
 - **氛围编程**：读取 `src/scenes/vibe.rs`（找不到时用编译期内置副本），归一化为 ASCII、跳过测试模块，每轮生成 6 个 10 行窗口。手写 Rust tokenizer 为注释、字符串、数字、关键字、类型、宏和函数名上色；转录是一个只显示到当前打字位置的队列（下方保持空白），下一轮开始前会清空，带 Claude Code 风格的 spinner、token 数和输入框。
 - **地图数据离线生成**：`tools/gen_land.py` 下载 Natural Earth 并栅格化为 `src/data/land_720x360.bin`，运行时不访问网络。

diff --git a/CHANGELOG.md b/CHANGELOG.md
@@ -9,7 +9,7 @@
   - `launch` **Rocket Launch** (火箭发射): a 24-second pad-to-orbit film. The rocket is now a terminal-scaled two-stage stack with twin boosters (roughly 42% of the screen height), drawn from a 7/9/11-column glyph grid. Ignition gets a fireball, shock ring and full-screen flash; the ascent has a layered plume with a white-hot spine and shock diamonds, world-space smoke, steam and sparks, a following camera with shake, a blue-hour sky gradient, parallax stars, max-Q clouds, a MECO flash with tumbling boosters and core stage, a second-stage climb, and an Earth-limb atmosphere with an orbital sunrise. New `--rocket-scale` and `--shake` knobs. Pure ASCII.
   - `plasma` **Plasma** (等离子): nine drifting metaballs, sine texture and a cycling palette. ASCII by default; `--unicode` uses a compact block ramp.
   - `interstellar` **Interstellar** (星际穿越): a 26-second rendezvous at an eight-section ring station. Eight spokes tie the thick ring cabins to a control room whose hexagonal block, windows, gold index and masts all turn with the ring; a three-arm docking claw hangs off the same rotating frame. A compact four-armed ship — one long gold index arm, one engine arm and two shorter side arms — arrives from the upper left, spirals down the upper-left radial while its roll turns with the ring, and meets the hub centre-to-centre at **20.0 s**. Contact throws a spark ring and a short flash; the docked stack then burns away toward a vanishing point with a short, faint trail of station after-images, and collapses into one star that blinks twice. The empty sky then dips to black over half a second and recovers over another half second before the loop restarts. ASCII by default; `--unicode` uses solid-block hull sections. New `docs/interstellar-ascii.png`, `docs/interstellar-storyboard.png` and `docs/interstellar.gif`.
-  - `dsh` **DeepSeek Harness** (深度求索) was rebuilt: the wordmark is now two centred lines (`DEEPSEEK` / `HARNESS`) laid out from 6×9 and 8×11 display faces with horizontal pixel doubling. Letter spacing is now a hard layout rule: zero-gap candidates are gone, the 3× face always keeps two blank columns, and the 2× face tries three then two before one. A 248×56 terminal gets a 206×11 lockup with two-column gaps (instead of the old 199×11 one-column merge); 160×48 gets 117×9 with three-column gaps. It picks the largest face that leaves room for a hand-traced **blue whale mark** (20×10 at 160×48, 13×6 at 120×36, 11×5 at 100×30, hidden below 100 columns) can sit just right of the K and fade in after the landing bounce. The intro reveals letters one by one and drops the lockup in quantised one-row steps; when it lands the lockup makes one quick two-row hop back up before settling, while the ghost stack — which belongs to HARNESS alone, starts at the feet of the letters and is kept deliberately faint — stays on the bottom step. The wordmark then stays on screen forever while a diagonal band of light runs from its upper-left corner to its lower-right corner: each glyph lifts from ice blue to white as the band arrives and falls back behind it, looping with no pause. Nothing is drawn between the letters — the movement is a pure font-brightness gradient, not a beam. A small star twinkles at the whale's tail tip, replaying the Interstellar vanishing star's two-blink cross flare every 4.6 seconds. No other fireworks or particle burst; `--trail` still scales the ghosts. The wordmark's own chromatic edge is now painted only into the blank columns beside a glyph, and the glyph colour was moved toward the theme's white; previously the edge overwrote the letters themselves on wide terminals, leaving two of every three stroke columns nearly black. ASCII by default; `--unicode` uses solid blocks. New `docs/dsh-ascii.png`, `docs/dsh-unicode.png` and `docs/dsh.gif`.
+  - `dsh` **DeepSeek Harness** (深度求索) was rebuilt: the wordmark is now two centred lines (`DEEPSEEK` / `HARNESS`) laid out from 6×9 and 8×11 display faces with horizontal pixel doubling. Letter spacing is now a hard layout rule: zero-gap candidates are gone, the 3× face always keeps two blank columns, and the 2× face tries three then two before one. A 248×56 terminal gets a 206×11 lockup with two-column gaps (instead of the old 199×11 one-column merge); 160×48 gets 117×9 with three-column gaps. It picks the largest face that leaves room for a hand-traced **blue whale mark** (20×10 at 160×48, 13×6 at 120×36, 11×5 at 100×30, hidden below 100 columns) can sit just right of the K and fade in after the landing bounce. The intro reveals letters one by one and drops the lockup in quantised one-row steps; when it lands the lockup makes one quick two-row hop back up before settling, while the ghost stack — which belongs to HARNESS alone, starts at the feet of the letters and is kept deliberately faint — stays on the bottom step. The wordmark then stays on screen forever while a narrow diagonal band of light runs from its upper-left corner to its lower-right corner: each glyph lifts from ice blue to white as the band arrives and falls back behind it; the pulse enters and leaves the frame before the next pass. Nothing is drawn between the letters — the movement is a pure font-brightness gradient, not a beam. A small star twinkles at the whale's tail tip, replaying the Interstellar vanishing star's two-blink cross flare every 4.6 seconds. No other fireworks or particle burst; `--trail` still scales the ghosts. The wordmark's own chromatic edge is now painted only into the blank columns beside a glyph, and the glyph colour was moved toward the theme's white; previously the edge overwrote the letters themselves on wide terminals, leaving two of every three stroke columns nearly black. ASCII by default; `--unicode` uses solid blocks. New `docs/dsh-ascii.png`, `docs/dsh-unicode.png` and `docs/dsh.gif`.
 - `shanghai` river rework: the Huangpu surface now runs on the `plasma` scene's idea — a set of drifting, breathing metaballs whose summed field is quantised into a dedicated water ramp. The lobes merge, split and slide downstream; cyan and ice currents carry the water, while pink and gold tower and rooftop glows ripple over them, so the palette stays the Bund's night water rather than the plasma theme. The skyline, tower, boats, wake, stars and meteors are unchanged. Both ASCII and Unicode ramps are new, and tests cover the field's motion, the ripple bounds and the absence of the plasma palette.
 - `fish` Aquarium: the three big sprites were redrawn as long soft-edged ellipses — rounded `,` / `'` outlines, a dark `%` back, a bright `+` belly and a single pointed `>` snout — instead of the old angular, sawtooth bodies. The forked tail, eye, tail wave and fixed mouth are unchanged; a new test asserts that each body widens and tapers smoothly, and the ASCII / Unicode previews plus the GIF were re-recorded.
 - The effect registry now has **32 effects**. Shortcuts are now optional in the metadata: the four newest scenes have no single-key shortcut and are entered with `trix <effect>` or `n` / `p`; all existing shortcuts are unchanged.

diff --git a/CHANGELOG.zh-CN.md b/CHANGELOG.zh-CN.md
@@ -9,7 +9,7 @@
   - `launch` **火箭发射 / Rocket Launch**：24 秒发射台→轨道大片。火箭改为按终端尺寸生成的两级火箭 + 双助推器（约屏高 42%），由 7/9/11 列字符网格绘制；点火加入火球、冲击环与全屏闪光；升空加入白热核心与马赫环的分层尾焰、世界坐标烟雾/蒸汽/火星、跟随镜头与震动、蓝调天空渐变、视差星空、Max-Q 云层、带翻滚助推器与芯级的 MECO 闪光、二级爬升，以及地球弧线大气与轨道日出。新增 `--rocket-scale` 与 `--shake`。纯 ASCII。
   - `plasma` **等离子 / Plasma**：9 个漂移 metaball + 正弦细节 + 循环调色板。默认 ASCII；`--unicode` 用紧凑块字符 ramp。
   - `interstellar` **星际穿越**（Interstellar）：8 段环形空间站，每个厚重舱体由辐条连回中央操控室；**操控室整体跟着空间站旋转**，六边形轮廓、窗户、金色索引点和两根天线都随环转动，三臂对接爪也挂在这个旋转坐标系上，26 秒一轮。一艘**中心很小、四条触手**的飞船从左上入画（一条长金色索引臂、一条引擎臂、两条较短的侧臂），沿左上半径盘旋进中心，自转与环同步，在 **20.0 秒**两个中心完成对接；火花与短闪之后，船站一体拖着短短一段淡淡残影朝消失点急驰、缩成一颗闪两次的星；孤星结束后空场先 0.5 秒变暗、再 0.5 秒渐变恢复，然后进入下一轮。默认 ASCII；`--unicode` 用实心块画舱体。新增 `docs/interstellar-ascii.png`、`docs/interstellar-storyboard.png` 与 `docs/interstellar.gif`。
-  - `dsh` **深度求索 / DeepSeek Harness** 重构：字标改为两行居中排版（`DEEPSEEK` / `HARNESS`），由 6×9 与 8×11 显示字模横向放大 2 倍生成。字距现在也是硬约束：删除了 0 列间距，3 倍字模始终保留 2 列空白，2 倍字模依次尝试 3、2、1 列。248×56 终端使用 206×11、2 列间距（原来 199×11 只有 1 列，字母会粘连）；160×48 使用 117×9、3 列间距。布局会选择仍能给 K 右侧手工描线**蓝色鲸鱼 Logo** 留出位置的最大字模（160×48 时 20×10，120×36 时 13×6，100×30 时 11×5，100 列以下隐藏）；Logo 在落地回弹后淡入。入场字母逐个出现，整块字标按每次 1 行阶梯式丢帧；落到底时整块字标先向上快速弹跳两行再落回，而残影停在最底行不动。残影只属于 HARNESS，从字体脚下开始，并刻意压暗。之后字标**永久保留**，一道斜向光带从字标左上角掠向右下角：经过的字符由冰蓝提亮到白色，光带离开后又落回冰蓝；光带无缝循环、没有停顿。字与字之间不画任何光线——这是纯粹的字体亮暗渐变，不是光束。小星移到鲸鱼尾尖，每 4.6 秒复现一次《星际穿越》孤星消失时的双闪十字光芒。除此之外没有烟花/粒子爆发；`--trail` 仍控制残影强度。字标自身的色散边缘现在只写入字符旁边的空白列，字色也进一步压向主题白的近白色；在此之前，宽屏下色散会覆盖字母本身，三列笔画里有两列被涂成近黑色。默认 ASCII；`--unicode` 用实心块。新增 `docs/dsh-ascii.png`、`docs/dsh-unicode.png` 与 `docs/dsh.gif`。
+  - `dsh` **深度求索 / DeepSeek Harness** 重构：字标改为两行居中排版（`DEEPSEEK` / `HARNESS`），由 6×9 与 8×11 显示字模横向放大 2 倍生成。字距现在也是硬约束：删除了 0 列间距，3 倍字模始终保留 2 列空白，2 倍字模依次尝试 3、2、1 列。248×56 终端使用 206×11、2 列间距（原来 199×11 只有 1 列，字母会粘连）；160×48 使用 117×9、3 列间距。布局会选择仍能给 K 右侧手工描线**蓝色鲸鱼 Logo** 留出位置的最大字模（160×48 时 20×10，120×36 时 13×6，100×30 时 11×5，100 列以下隐藏）；Logo 在落地回弹后淡入。入场字母逐个出现，整块字标按每次 1 行阶梯式丢帧；落到底时整块字标先向上快速弹跳两行再落回，而残影停在最底行不动。残影只属于 HARNESS，从字体脚下开始，并刻意压暗。之后字标**永久保留**，一道窄斜向光带从字标左上角掠向右下角：经过的字符由冰蓝提亮到白色，光带离开后又落回冰蓝；光带循环不息，每一轮从画外进入、再滑出画外。字与字之间不画任何光线——这是纯粹的字体亮暗渐变，不是光束。小星移到鲸鱼尾尖，每 4.6 秒复现一次《星际穿越》孤星消失时的双闪十字光芒。除此之外没有烟花/粒子爆发；`--trail` 仍控制残影强度。字标自身的色散边缘现在只写入字符旁边的空白列，字色也进一步压向主题白的近白色；在此之前，宽屏下色散会覆盖字母本身，三列笔画里有两列被涂成近黑色。默认 ASCII；`--unicode` 用实心块。新增 `docs/dsh-ascii.png`、`docs/dsh-unicode.png` 与 `docs/dsh.gif`。
 - `shanghai` 江面重做：黄浦江改用 `plasma` 场景的思路——一组漂移、呼吸的 metaball 叠加成标量场，再映射到专用的水面字符 ramp。光团会融合、分裂并顺流漂移；青与冰蓝的水流承载水色，粉色和金色的塔光、楼顶霓虹在其上粼粼波动，调色板仍是外滩夜色而不是等离子主题色。天际线、东方明珠、船只、尾迹、星空与流星保持不变。ASCII 与 Unicode 各有新的水面 ramp，并新增水面动效、光团边界与“等离子调色板不泄漏”的测试。
 - `fish` 水族馆：三条大鱼的 sprite 重画为长椭圆——柔和的 `,` / `'` 轮廓、深色 `%` 背部、亮色 `+` 腹部，嘴部收成单个尖 `>`；不再使用原来带棱角的锯齿身体。分叉尾、眼睛、摆尾和固定嘴部保持不变；新增“身体先平滑变宽再收窄”的测试，并重录 ASCII / Unicode 预览与 GIF。
 - 特效注册表为 **32 个**。快捷键元数据改为可选：四个最新场景没有单键快捷键，用 `trix <effect>` 或 `n` / `p` 进入；现有快捷键全部不变。
